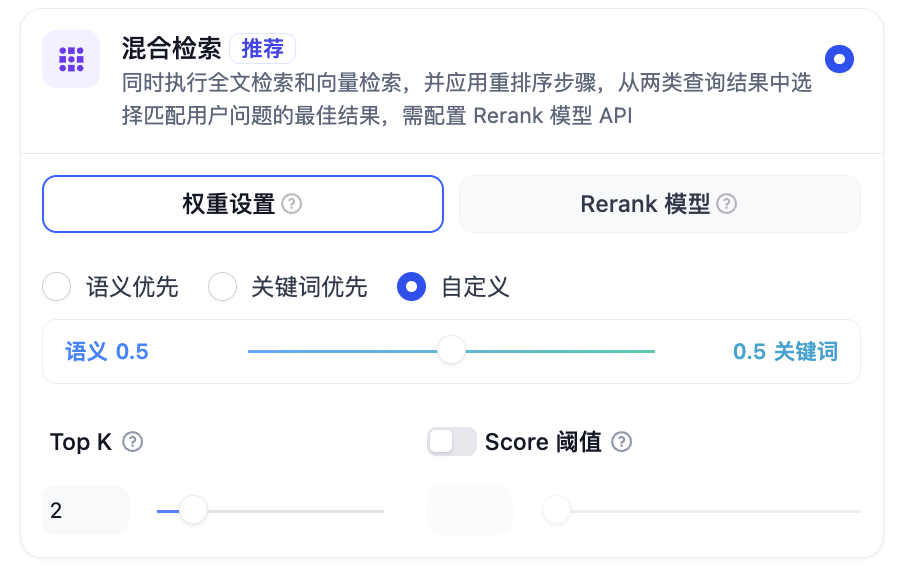
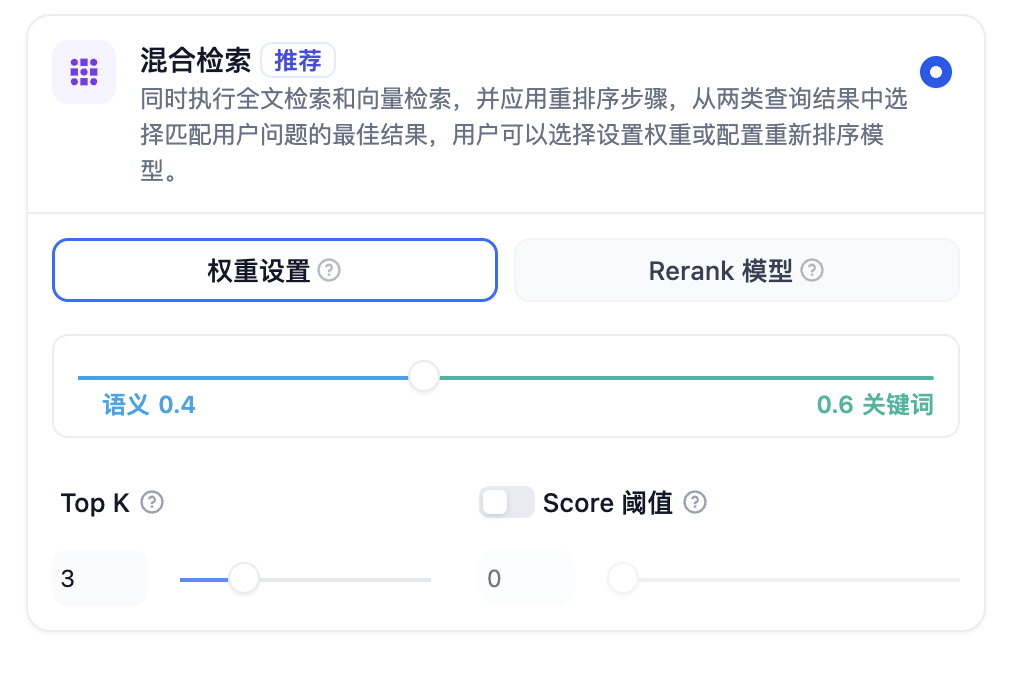
Docs:update rerank docs

diff --git a/zh_CN/guides/knowledge-base/integrate_knowledge_within_application.md b/zh_CN/guides/knowledge-base/integrate_knowledge_within_application.md
@@ -23,9 +23,13 @@
 
 N 选 1 召回由 Function Call/ReAct 进行驱动，每一个关联的知识库作为工具函数，LLM 会自主选择与用户问题最匹配的 1 个知识库来进行查询，**推理依据为用户问题与知识库描述的语义的匹配程度**。
 
-举例：A 应用的上下文关联了 K1、K2、K3 三个知识库。使用 N 选 1 召回策略后，用户在应用内输入问题后，LLM 将检索这三个知识库的描述，匹配某个最适合的知识库并使用其中的内容进行检索。
+原理图如下：
 
 <figure><img src="../../.gitbook/assets/image (190).png" alt=""><figcaption></figcaption></figure>
+
+举例：A 应用的上下文关联了 K1、K2、K3 三个知识库。使用 N 选 1 召回策略后，用户在应用内输入问题后，LLM 将检索这三个知识库的描述，匹配某个最适合的知识库并使用其中的内容进行检索。
+
+![](../../../img/zh-n-to-1.png)
 
 虽然此方法无需配置 [Rerank](https://docs.dify.ai/v/zh-hans/learn-more/extended-reading/retrieval-augment/rerank) 模型，但该召回策略仅匹配单个知识库，且匹配的目标知识库严重依赖于 LLM 对于知识库描述的理解，检索匹配知识库时可能会存在不合理的判断，导致检索到的结果可能不全面、不准确，从而无法提供高质量的查询结果。
 
@@ -51,9 +55,9 @@ N 选 1 召回由 Function Call/ReAct 进行驱动，每一个关联的知识库
 
 根据用户意图同时检索所有添加至 **“上下文”** 的知识库，在多个知识库内查询相关文本片段，选择所有和用户问题相匹配的内容，最后通过 Rerank 策略找到最适合的内容并回答用户。该方法的检索原理更为科学。
 
-举例：A 应用的上下文关联了 K1、K2、K3 三个知识库，当用户输入问题后，将在三个知识库内检索并汇总多条内容。为确保能找到最匹配的内容，需要通过 Rerank 策略确定与用户问题最相关的内容，确保结果更加精准与可信。
-
 <figure><img src="../../../img/zh-rag-multiple.png" alt=""><figcaption></figcaption></figure>
+
+举例：A 应用的上下文关联了 K1、K2、K3 三个知识库，当用户输入问题后，将在三个知识库内检索并汇总多条内容。为确保能找到最匹配的内容，需要通过 Rerank 策略确定与用户问题最相关的内容，确保结果更加精准与可信。
 
 在实际问答场景中，每个知识库的内容来源和检索方式可能都有所差异。针对检索返回的多条混合内容，[Rerank 策略](https://docs.dify.ai/v/zh-hans/learn-more/extended-reading/retrieval-augment/rerank)是一个更加科学的内容排序机制。它可以帮助确认候选内容列表与用户问题的匹配度，改进多个知识间排序的结果以找到最匹配的内容，提高回答质量和用户体验。
 
@@ -61,19 +65,21 @@ N 选 1 召回由 Function Call/ReAct 进行驱动，每一个关联的知识库
 
 ##### 权重设置
 
-该设置无需配置外部 Rerank 模型，重排序内容**无需额外花费**，但依然可以通过语义或关键词配置，确保内容匹配质量。你可以选择固定权重比例的 **“关键词 & 语义优先”** 配置，或通过不断调试，自定义权重比例。
+该设置无需配置外部 Rerank 模型，重排序内容**无需额外花费**。可以通过调整语义或关键词的权重比例条，选择最适合的内容匹配策略。
 
-- **关键词 & 语义优先**
-  
-  **关键词检索** 通过用户输入的信息文本在知识库全文匹配，适用于用户知道确切的信息或术语的场景。该方法所消耗的计算资源较低，适合在大量文档的知识库内快速检索。
+- **语义值为 1**
 
-  **语义检索** 能够查询文本背后的概念。借助 Embedding 模型，即便知识库中没有出现查询中的确切词汇，也能通过计算向量距离的方式提高搜索的深度，返回正确内容。此外，当需要处理多语言内容时，语义检索能够捕捉不同语言之间的意义转换，提供更加准确的跨语言搜索结果。
+  仅启用语义检索模式。借助 Embedding 模型，即便知识库中没有出现查询中的确切词汇，也能通过计算向量距离的方式提高搜索的深度，返回正确内容。此外，当需要处理多语言内容时，语义检索能够捕捉不同语言之间的意义转换，提供更加准确的跨语言搜索结果。
 
   > 语义检索指的是比对用户问题与知识库内容中的向量距离。距离越近，匹配的概率越大。参考阅读：[《Dify：Embedding 技术与 Dify 数据集设计/规划》](https://mp.weixin.qq.com/s/vmY_CUmETo2IpEBf1nEGLQ)。
 
+- **关键词值为 1**
+  
+  仅启用关键词检索模式。通过用户输入的信息文本在知识库全文匹配，适用于用户知道确切的信息或术语的场景。该方法所消耗的计算资源较低，适合在大量文档的知识库内快速检索。
+
 - **自定义关键词和语义权重**
 
-    除了固定权重比例的关键词和语义搜索，我们还提供了灵活的自定义权重设置。通过不断调试二者的权重，你可以找到符合业务场景的最佳权重比例。
+    除了仅启用语义检索或关键词检索模式，我们还提供了灵活的自定义权重设置。你可以通过不断调试二者的权重，找到符合业务场景的最佳权重比例。
     
 ##### Rerank 模型
 
@@ -162,13 +168,13 @@ Dify 目前支持多个 Rerank 模型，进入 “模型供应商” 页填入 R
     <td rowspan="3">全部高质量型</td>
     <td>1. 所有知识库都使用了向量检索</td>
     <td>相同的 Embedding 模型</td>
-    <td>默认选用"权重设置" 的语义优先</td>
+    <td>默认选用"权重设置"，语义数值为 1</td>
     <td>Rerank 设置与知识库检索模式相匹配</td>
   </tr>
   <tr>
     <td>2. 所有知识库都使用了全文检索</td>
     <td>相同的 Embedding 模型</td>
-    <td>默认选用"权重设置" 的关键词优先</td>
+    <td>默认选用"权重设置"，关键词数值为 1</td>
     <td>Rerank 设置与知识库检索模式相匹配</td>
   </tr>
   <tr>

diff --git a/zh_CN/guides/knowledge-base/create_knowledge_and_upload_documents.md b/zh_CN/guides/knowledge-base/create_knowledge_and_upload_documents.md
@@ -146,15 +146,19 @@ Rerank 模型：你可以在“模型供应商”页面配置 Rerank 模型的 A
 
 权重设置：允许用户赋予语义优先和关键词优先自定义的权重。关键词检索指的是在知识库内进行全文检索（Full Text Search），语义检索指的是在知识库内进行向量检索（Vector Search）。
 
-- **关键词 & 语义优先**
+- **语义值为 1**
+
+  仅启用语义检索模式。借助 Embedding 模型，即便知识库中没有出现查询中的确切词汇，也能通过计算向量距离的方式提高搜索的深度，返回正确内容。此外，当需要处理多语言内容时，语义检索能够捕捉不同语言之间的意义转换，提供更加准确的跨语言搜索结果。
+
+  > 语义检索指的是比对用户问题与知识库内容中的向量距离。距离越近，匹配的概率越大。参考阅读：[《Dify：Embedding 技术与 Dify 数据集设计/规划》](https://mp.weixin.qq.com/s/vmY_CUmETo2IpEBf1nEGLQ)。
+
+- **关键词值为 1**
   
-  **关键词检索** 能够通过输入的信息文本进行全文匹配，适合用户知道确切的信息或术语的场景。该方法所消耗的计算资源较低，适合在大量文档的知识库内进行快速检索。
+  仅启用关键词检索模式。通过用户输入的信息文本在知识库全文匹配，适用于用户知道确切的信息或术语的场景。该方法所消耗的计算资源较低，适合在大量文档的知识库内快速检索。
 
-  **语义检索** 能够查询文本背后的概念。借助 Embedding 模型，即便知识库中没有出现查询中的确切词汇，也能通过计算向量距离的方式提高搜索的深度，返回正确内容。此外，当需要处理多语言内容时，语义检索能够捕捉不同语言之间的意义转换，提供更加准确的跨语言搜索结果。
+- **自定义关键词和语义权重**
 
-- **自定义关键词和语义的权重**
-
-    除了固定权重比例的关键词和语义搜索，我们还提供了灵活的自定义权重设置。通过不断调试二者的权重，你可以找到符合业务场景的最佳权重比例。
+    除了仅启用语义检索或关键词检索模式，我们还提供了灵活的自定义权重设置。你可以通过不断调试二者的权重，找到符合业务场景的最佳权重比例。
 
 TopK：用于筛选与用户问题相似度最高的文本片段。系统同时会根据选用模型上下文窗口大小动态调整片段数量。系统默认值为 3 。数值越高，预期被召回的文本分段数量越多。
 
